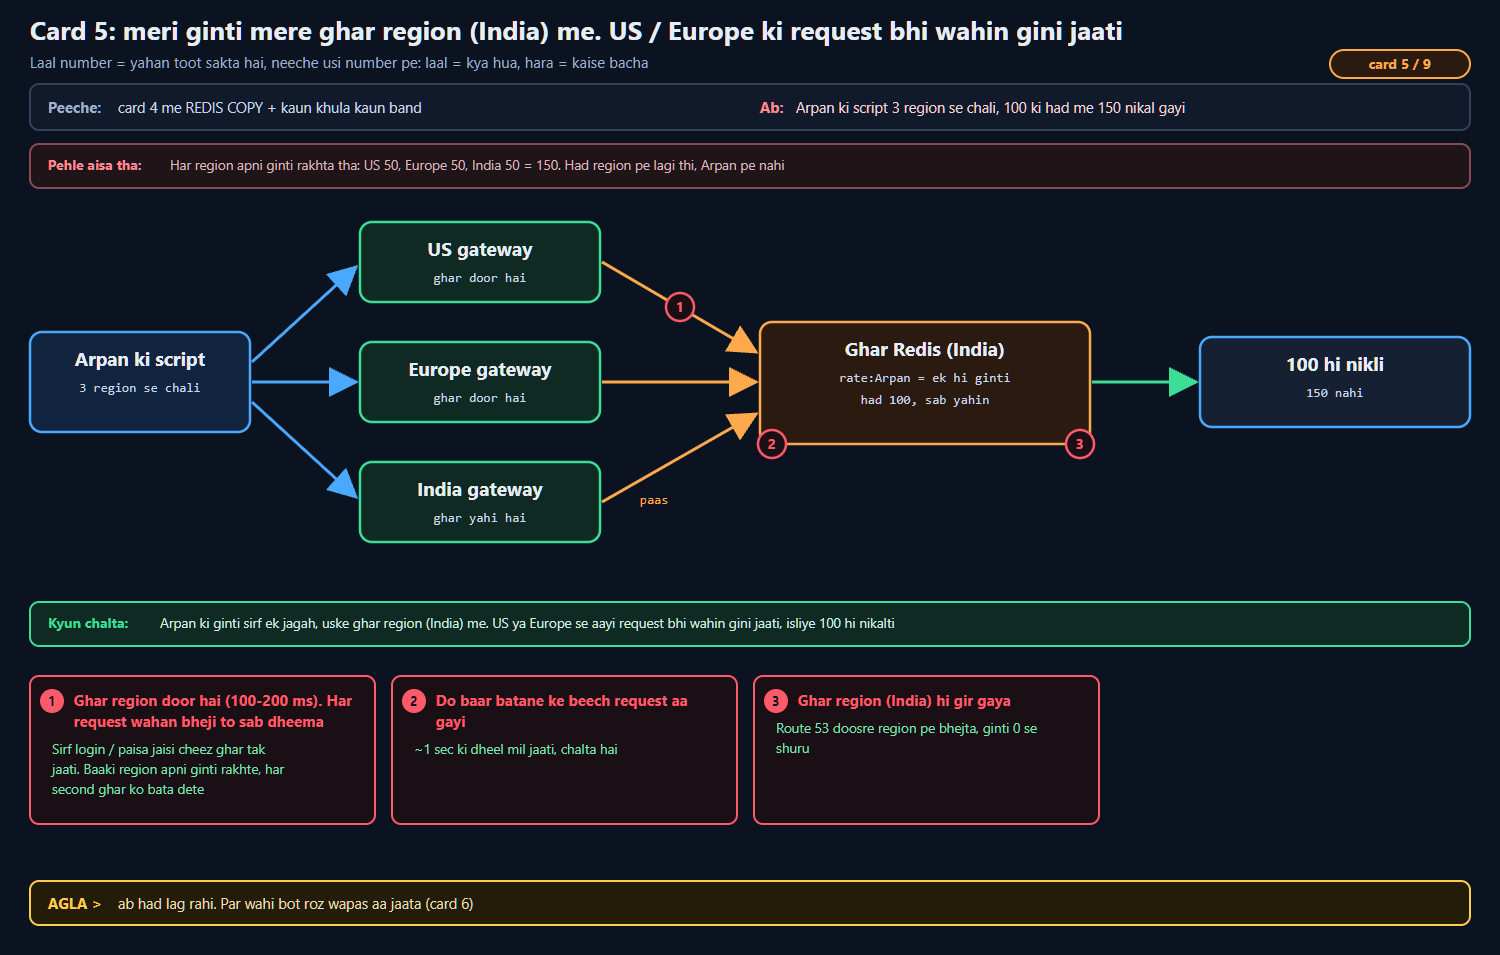
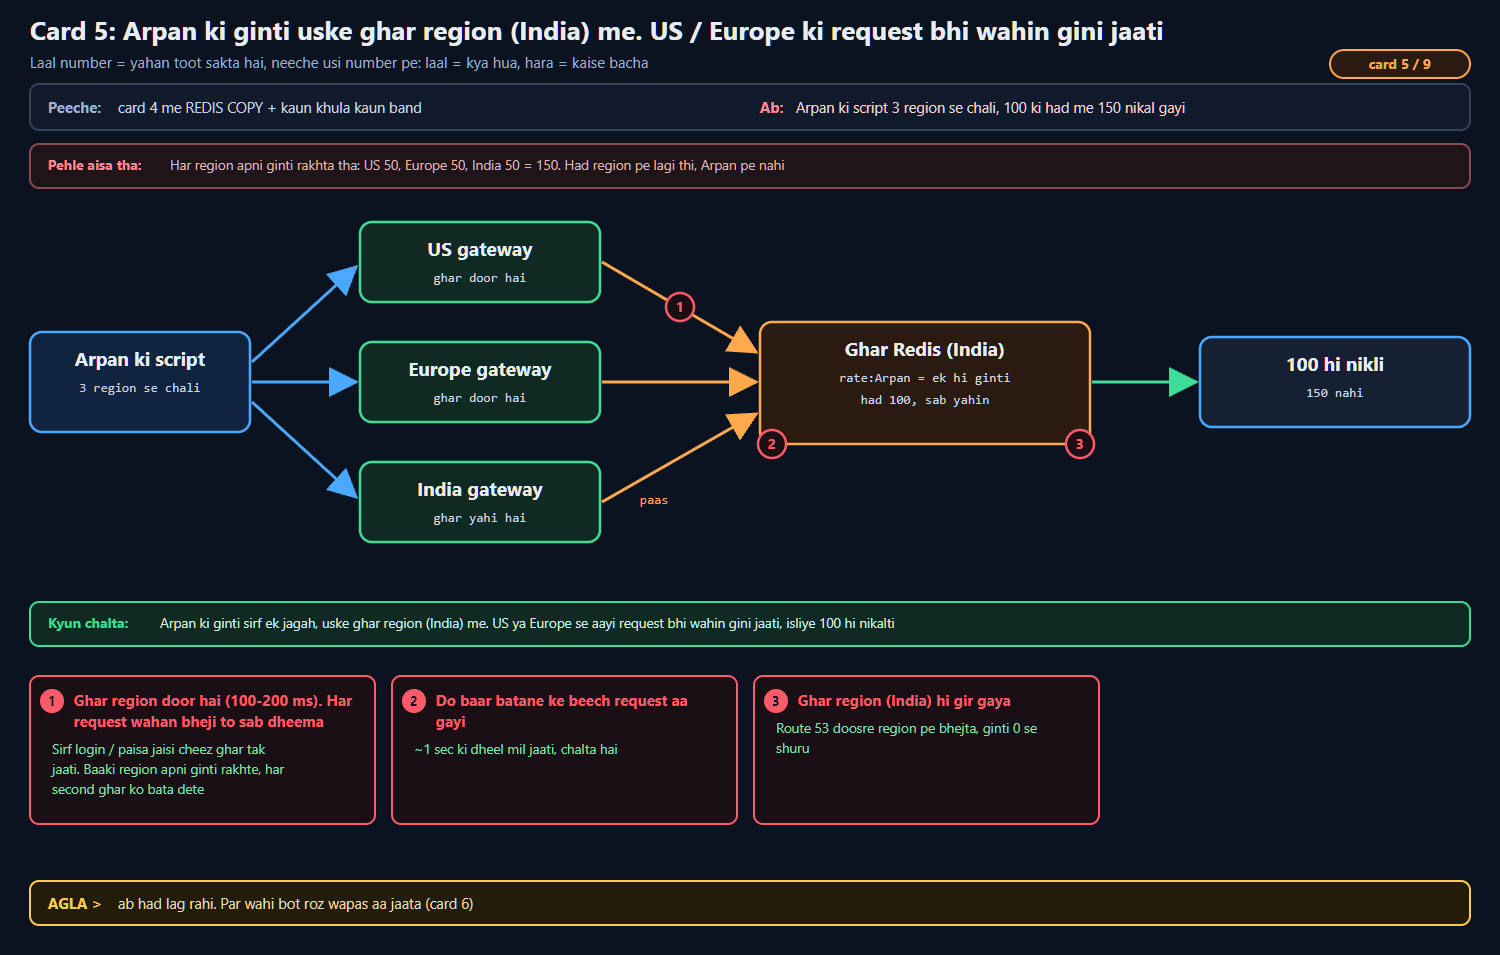
hld poster: teen heading me mera / meri -> Arpan

Changed region(s): [[0.092, 0.0, 0.7667, 0.0607]]

diff --git a/04_HLD/SYSTEM_DESIGNS/06_payment_system/img/c10_poster.html b/04_HLD/SYSTEM_DESIGNS/06_payment_system/img/c10_poster.html
@@ -1,6 +1,6 @@
 <!doctype html>
 <meta charset="utf-8">
-<title>Card 10: account_id se shard: mera balan</title>
+<title>Card 10: account_id se shard: Arpan ka b</title>
 <style>body{margin:0;background:#0b1220} svg text{font-family:"Segoe UI",Arial,sans-serif} .m{font-family:Consolas,monospace}</style>
 <svg width="1500" height="1092" viewBox="0 0 1500 1092" xmlns="http://www.w3.org/2000/svg"><defs>
 <marker id="ablue" markerWidth="10" markerHeight="10" refX="9" refY="5" orient="auto"><path d="M0,0 L10,5 L0,10 Z" fill="#4aa8ff"/></marker>
@@ -9,7 +9,7 @@
 <marker id="agrey" markerWidth="10" markerHeight="10" refX="9" refY="5" orient="auto"><path d="M0,0 L10,5 L0,10 Z" fill="#6b7a90"/></marker>
 <marker id="aorange" markerWidth="10" markerHeight="10" refX="9" refY="5" orient="auto"><path d="M0,0 L10,5 L0,10 Z" fill="#ffa94d"/></marker>
 </defs><rect width="1500" height="1092" fill="#0b1220"/>
-<text x="30" y="40" font-size="26" font-weight="700" fill="#e6edf3">Card 10: account_id se shard: mera balance + history ek tukde pe. Do shard ke beech = saga</text>
+<text x="30" y="40" font-size="26" font-weight="700" fill="#e6edf3">Card 10: account_id se shard: Arpan ka balance + history ek tukde pe. Do shard ke beech = saga</text>
 <text x="30" y="68" font-size="15" fill="#9fb0c8">Laal number = yahan toot sakta hai, neeche usi number pe: laal = kya hua, hara = kaise bacha</text>
 <rect x="1330" y="50" width="140" height="28" rx="14" fill="#2a1a10" stroke="#ffa94d" stroke-width="2"/>
 <text x="1400" y="69" font-size="14" font-weight="700" fill="#ffa94d" text-anchor="middle">card 10 / 10</text>

diff --git a/04_HLD/SYSTEM_DESIGNS/02_rate_limiter/img/c5_poster.html b/04_HLD/SYSTEM_DESIGNS/02_rate_limiter/img/c5_poster.html
@@ -1,6 +1,6 @@
 <!doctype html>
 <meta charset="utf-8">
-<title>Card 5: meri ginti mere ghar region (Ind</title>
+<title>Card 5: Arpan ki ginti uske ghar region </title>
 <style>body{margin:0;background:#0b1220} svg text{font-family:"Segoe UI",Arial,sans-serif} .m{font-family:Consolas,monospace}</style>
 <svg width="1500" height="955" viewBox="0 0 1500 955" xmlns="http://www.w3.org/2000/svg"><defs>
 <marker id="ablue" markerWidth="10" markerHeight="10" refX="9" refY="5" orient="auto"><path d="M0,0 L10,5 L0,10 Z" fill="#4aa8ff"/></marker>
@@ -9,7 +9,7 @@
 <marker id="agrey" markerWidth="10" markerHeight="10" refX="9" refY="5" orient="auto"><path d="M0,0 L10,5 L0,10 Z" fill="#6b7a90"/></marker>
 <marker id="aorange" markerWidth="10" markerHeight="10" refX="9" refY="5" orient="auto"><path d="M0,0 L10,5 L0,10 Z" fill="#ffa94d"/></marker>
 </defs><rect width="1500" height="955" fill="#0b1220"/>
-<text x="30" y="40" font-size="26" font-weight="700" fill="#e6edf3">Card 5: meri ginti mere ghar region (India) me. US / Europe ki request bhi wahin gini jaati</text>
+<text x="30" y="40" font-size="26" font-weight="700" fill="#e6edf3">Card 5: Arpan ki ginti uske ghar region (India) me. US / Europe ki request bhi wahin gini jaati</text>
 <text x="30" y="68" font-size="15" fill="#9fb0c8">Laal number = yahan toot sakta hai, neeche usi number pe: laal = kya hua, hara = kaise bacha</text>
 <rect x="1330" y="50" width="140" height="28" rx="14" fill="#2a1a10" stroke="#ffa94d" stroke-width="2"/>
 <text x="1400" y="69" font-size="14" font-weight="700" fill="#ffa94d" text-anchor="middle">card 5 / 9</text>

diff --git a/04_HLD/SYSTEM_DESIGNS/08_news_aggregator/img/c6_poster.html b/04_HLD/SYSTEM_DESIGNS/08_news_aggregator/img/c6_poster.html
@@ -41,7 +41,7 @@
 <text x="1105.0" y="314" font-size="13" fill="#c9d6e8" class="m" text-anchor="middle">id se dedupe</text>
 <rect x="1310" y="230" width="160" height="120" rx="12" fill="#10243f" stroke="#4aa8ff" stroke-width="2.5"/>
 <text x="1390.0" y="264" font-size="19" font-weight="700" fill="#e6edf3" text-anchor="middle">Arpan ki feed</text>
-<text x="1390.0" y="290" font-size="13" fill="#c9d6e8" class="m" text-anchor="middle">mera mix</text>
+<text x="1390.0" y="290" font-size="13" fill="#c9d6e8" class="m" text-anchor="middle">Arpan ka mix</text>
 <path d="M232 280 L296 280" fill="none" stroke="#4aa8ff" stroke-width="3" marker-end="url(#ablue)"/>
 <path d="M542 250 L626 205" fill="none" stroke="#ffa94d" stroke-width="3" marker-end="url(#aorange)"/>
 <path d="M542 290 L626 315" fill="none" stroke="#ffa94d" stroke-width="3" marker-end="url(#aorange)"/>

diff --git a/04_HLD/SYSTEM_DESIGNS/06_payment_system/06_payment_system.md b/04_HLD/SYSTEM_DESIGNS/06_payment_system/06_payment_system.md
@@ -71,7 +71,7 @@ DHYAAN  "NoSQL me ACID hota hi nahi" mat bolo, kai NoSQL ek row / document pe at
 
 **Rail 1 KAAM CHALA (khaas)** · Cue: EK TRANSACTION (WAL se poora / ulta)
 
-<img src="img/c1_poster.png?v=3" width="1000" alt="card 1: kya toota, kaise bacha">
+<img src="img/c1_poster.png?v=4" width="1000" alt="card 1: kya toota, kaise bacha">
 
 
 ---
@@ -82,7 +82,7 @@ DHYAAN  "NoSQL me ACID hota hi nahi" mat bolo, kai NoSQL ek row / document pe at
 
 **Rail 4 DO LOG EK SAATH (wallet)** · Cue: check + kaato EK atomic query
 
-<img src="img/c2_poster.png?v=3" width="1000" alt="card 2: kya toota, kaise bacha">
+<img src="img/c2_poster.png?v=4" width="1000" alt="card 2: kya toota, kaise bacha">
 
 
 ---
@@ -93,7 +93,7 @@ DHYAAN  "NoSQL me ACID hota hi nahi" mat bolo, kai NoSQL ek row / document pe at
 
 **Rail 4 DO LOG EK SAATH (retry)** · Cue: IDEMPOTENCY KEY (screen khulte)
 
-<img src="img/c3_poster.png?v=3" width="1000" alt="card 3: kya toota, kaise bacha">
+<img src="img/c3_poster.png?v=4" width="1000" alt="card 3: kya toota, kaise bacha">
 
 
 ---
@@ -104,7 +104,7 @@ DHYAAN  "NoSQL me ACID hota hi nahi" mat bolo, kai NoSQL ek row / document pe at
 
 **Rail 5 KUCH DHEEMA (PSP)** · Cue: timeout = PENDING, circuit breaker = abhi nahi
 
-<img src="img/c4_poster.png?v=3" width="1000" alt="card 4: kya toota, kaise bacha">
+<img src="img/c4_poster.png?v=4" width="1000" alt="card 4: kya toota, kaise bacha">
 
 
 ---
@@ -115,7 +115,7 @@ DHYAAN  "NoSQL me ACID hota hi nahi" mat bolo, kai NoSQL ek row / document pe at
 
 **Rail 3 MACHINE GIRI (PSP call)** · Cue: PENDING pehle + WEBHOOK + RECONCILE
 
-<img src="img/c5_poster.png?v=3" width="1000" alt="card 5: kya toota, kaise bacha">
+<img src="img/c5_poster.png?v=4" width="1000" alt="card 5: kya toota, kaise bacha">
 
 
 ---
@@ -126,7 +126,7 @@ DHYAAN  "NoSQL me ACID hota hi nahi" mat bolo, kai NoSQL ek row / document pe at
 
 **Rail 1 KAAM CHALA (doosra bank)** · Cue: SAGA (step-step, fail pe ulta)
 
-<img src="img/c6_poster.png?v=3" width="1000" alt="card 6: kya toota, kaise bacha">
+<img src="img/c6_poster.png?v=4" width="1000" alt="card 6: kya toota, kaise bacha">
 
 
 ---
@@ -137,7 +137,7 @@ DHYAAN  "NoSQL me ACID hota hi nahi" mat bolo, kai NoSQL ek row / document pe at
 
 **Rail 1 KAAM CHALA (hisaab)** · Cue: LEDGER double-entry, sirf INSERT
 
-<img src="img/c7_poster.png?v=3" width="1000" alt="card 7: kya toota, kaise bacha">
+<img src="img/c7_poster.png?v=4" width="1000" alt="card 7: kya toota, kaise bacha">
 
 
 ---
@@ -148,7 +148,7 @@ DHYAAN  "NoSQL me ACID hota hi nahi" mat bolo, kai NoSQL ek row / document pe at
 
 **Rail 2 BHEED AAYI** · Cue: STATELESS, kai machine + LB
 
-<img src="img/c8_poster.png?v=3" width="1000" alt="card 8: kya toota, kaise bacha">
+<img src="img/c8_poster.png?v=4" width="1000" alt="card 8: kya toota, kaise bacha">
 
 
 ---
@@ -159,7 +159,7 @@ DHYAAN  "NoSQL me ACID hota hi nahi" mat bolo, kai NoSQL ek row / document pe at
 
 **Rail 5 KUCH DHEEMA (report)** · Cue: READ REPLICA (sirf report)
 
-<img src="img/c9_poster.png?v=3" width="1000" alt="card 9: kya toota, kaise bacha">
+<img src="img/c9_poster.png?v=4" width="1000" alt="card 9: kya toota, kaise bacha">
 
 
 ---
@@ -170,7 +170,7 @@ DHYAAN  "NoSQL me ACID hota hi nahi" mat bolo, kai NoSQL ek row / document pe at
 
 **Rail 6 DATA BADA** · Cue: SHARD by account_id
 
-<img src="img/c10_poster.png?v=3" width="1000" alt="card 10: kya toota, kaise bacha">
+<img src="img/c10_poster.png?v=4" width="1000" alt="card 10: kya toota, kaise bacha">
 
 
 ---

diff --git a/04_HLD/SYSTEM_DESIGNS/08_news_aggregator/08_news_aggregator_INTERVIEW.md b/04_HLD/SYSTEM_DESIGNS/08_news_aggregator/08_news_aggregator_INTERVIEW.md
@@ -63,7 +63,7 @@ PEHLE   sabse simple: Fetcher sources se laata hai, DB me daalta hai. Feed Svc h
 
 **Rail 2 BHEED AAYI** · Cue: FEED CACHE (Redis SORTED SET)
 
-<img src="img/c1_poster.png?v=3" width="1000" alt="card 1: kya toota, kaise bacha">
+<img src="img/c1_poster.png?v=4" width="1000" alt="card 1: kya toota, kaise bacha">
 
 
 ---
@@ -74,7 +74,7 @@ PEHLE   sabse simple: Fetcher sources se laata hai, DB me daalta hai. Feed Svc h
 
 **Rail 5 KUCH DHEEMA (fetch)** · Cue: KAFKA: laana aur likhna alag
 
-<img src="img/c2_poster.png?v=3" width="1000" alt="card 2: kya toota, kaise bacha">
+<img src="img/c2_poster.png?v=4" width="1000" alt="card 2: kya toota, kaise bacha">
 
 
 ---
@@ -85,7 +85,7 @@ PEHLE   sabse simple: Fetcher sources se laata hai, DB me daalta hai. Feed Svc h
 
 **Rail 2 BHEED AAYI (result)** · Cue: LB + READ REPLICA
 
-<img src="img/c3_poster.png?v=3" width="1000" alt="card 3: kya toota, kaise bacha">
+<img src="img/c3_poster.png?v=4" width="1000" alt="card 3: kya toota, kaise bacha">
 
 
 ---
@@ -96,7 +96,7 @@ PEHLE   sabse simple: Fetcher sources se laata hai, DB me daalta hai. Feed Svc h
 
 **Rail 4 DO LOG EK SAATH (khaas)** · Cue: DEDUPE (title hash + SimHash)
 
-<img src="img/c4_poster.png?v=3" width="1000" alt="card 4: kya toota, kaise bacha">
+<img src="img/c4_poster.png?v=4" width="1000" alt="card 4: kya toota, kaise bacha">
 
 
 ---
@@ -107,7 +107,7 @@ PEHLE   sabse simple: Fetcher sources se laata hai, DB me daalta hai. Feed Svc h
 
 **Rail 5 KUCH DHEEMA (source)** · Cue: TIMEOUT + CIRCUIT BREAKER
 
-<img src="img/c5_poster.png?v=3" width="1000" alt="card 5: kya toota, kaise bacha">
+<img src="img/c5_poster.png?v=4" width="1000" alt="card 5: kya toota, kaise bacha">
 
 
 ---
@@ -118,7 +118,7 @@ PEHLE   sabse simple: Fetcher sources se laata hai, DB me daalta hai. Feed Svc h
 
 **Rail 1 KAAM CHALA (category)** · Cue: CATEGORY FEED, padhte waqt milao
 
-<img src="img/c6_poster.png?v=3" width="1000" alt="card 6: kya toota, kaise bacha">
+<img src="img/c6_poster.png?v=4" width="1000" alt="card 6: kya toota, kaise bacha">
 
 
 ---
@@ -129,7 +129,7 @@ PEHLE   sabse simple: Fetcher sources se laata hai, DB me daalta hai. Feed Svc h
 
 **Rail 1 KAAM CHALA (search)** · Cue: INVERTED INDEX
 
-<img src="img/c7_poster.png?v=3" width="1000" alt="card 7: kya toota, kaise bacha">
+<img src="img/c7_poster.png?v=4" width="1000" alt="card 7: kya toota, kaise bacha">
 
 
 ---
@@ -140,7 +140,7 @@ PEHLE   sabse simple: Fetcher sources se laata hai, DB me daalta hai. Feed Svc h
 
 **Rail 6 DATA BADA (purana)** · Cue: mahine ka PARTITION, purana ARCHIVE
 
-<img src="img/c8_poster.png?v=3" width="1000" alt="card 8: kya toota, kaise bacha">
+<img src="img/c8_poster.png?v=4" width="1000" alt="card 8: kya toota, kaise bacha">
 
 
 ---
@@ -151,7 +151,7 @@ PEHLE   sabse simple: Fetcher sources se laata hai, DB me daalta hai. Feed Svc h
 
 **Rail 6 DATA BADA (likhai)** · Cue: SHARD hash(article_id)
 
-<img src="img/c9_poster.png?v=3" width="1000" alt="card 9: kya toota, kaise bacha">
+<img src="img/c9_poster.png?v=4" width="1000" alt="card 9: kya toota, kaise bacha">
 
 
 ---

diff --git a/04_HLD/SYSTEM_DESIGNS/02_rate_limiter/02_rate_limiter.md b/04_HLD/SYSTEM_DESIGNS/02_rate_limiter/02_rate_limiter.md
@@ -78,7 +78,7 @@ AGAR    bucket bhara tha, 10 request ek saath aayi
 
 **Rail 4 DO LOG EK SAATH** · Cue: Redis me EK ginti, 60 sec umar
 
-<img src="img/c1_poster.png?v=3" width="1000" alt="card 1: kya toota, kaise bacha">
+<img src="img/c1_poster.png?v=4" width="1000" alt="card 1: kya toota, kaise bacha">
 
 
 ---
@@ -89,7 +89,7 @@ AGAR    bucket bhara tha, 10 request ek saath aayi
 
 **Rail 4 DO LOG EK SAATH (khaas)** · Cue: ATOMIC: INCR / LUA script
 
-<img src="img/c2_poster.png?v=3" width="1000" alt="card 2: kya toota, kaise bacha">
+<img src="img/c2_poster.png?v=4" width="1000" alt="card 2: kya toota, kaise bacha">
 
 
 ---
@@ -100,7 +100,7 @@ AGAR    bucket bhara tha, 10 request ek saath aayi
 
 **Rail 5 KUCH DHEEMA** · Cue: LIMITER GATEWAY pe, sabse aage
 
-<img src="img/c3_poster.png?v=3" width="1000" alt="card 3: kya toota, kaise bacha">
+<img src="img/c3_poster.png?v=4" width="1000" alt="card 3: kya toota, kaise bacha">
 
 
 ---
@@ -111,7 +111,7 @@ AGAR    bucket bhara tha, 10 request ek saath aayi
 
 **Rail 3 MACHINE GIRI** · Cue: REPLICA + FAIL-OPEN / FAIL-CLOSED
 
-<img src="img/c4_poster.png?v=3" width="1000" alt="card 4: kya toota, kaise bacha">
+<img src="img/c4_poster.png?v=4" width="1000" alt="card 4: kya toota, kaise bacha">
 
 
 ---
@@ -122,7 +122,7 @@ AGAR    bucket bhara tha, 10 request ek saath aayi
 
 **Rail 7 DOOR KE LOG** · Cue: HOME REGION me ginti
 
-<img src="img/c5_poster.png?v=3" width="1000" alt="card 5: kya toota, kaise bacha">
+<img src="img/c5_poster.png?v=4" width="1000" alt="card 5: kya toota, kaise bacha">
 
 
 ---
@@ -133,7 +133,7 @@ AGAR    bucket bhara tha, 10 request ek saath aayi
 
 **Rail 8 BAHAR KA HAMLA** · Cue: KAFKA -> PATTERN -> WAF BAN
 
-<img src="img/c6_poster.png?v=3" width="1000" alt="card 6: kya toota, kaise bacha">
+<img src="img/c6_poster.png?v=4" width="1000" alt="card 6: kya toota, kaise bacha">
 
 
 ---
@@ -144,7 +144,7 @@ AGAR    bucket bhara tha, 10 request ek saath aayi
 
 **Rail 2 BHEED AAYI** · Cue: GLOBAL CAP + LOAD SHEDDING (503)
 
-<img src="img/c7_poster.png?v=3" width="1000" alt="card 7: kya toota, kaise bacha">
+<img src="img/c7_poster.png?v=4" width="1000" alt="card 7: kya toota, kaise bacha">
 
 
 ---
@@ -155,7 +155,7 @@ AGAR    bucket bhara tha, 10 request ek saath aayi
 
 **Rail 3 MACHINE GIRI (Redis + copy)** · Cue: LOCAL COUNTER FALLBACK
 
-<img src="img/c8_poster.png?v=3" width="1000" alt="card 8: kya toota, kaise bacha">
+<img src="img/c8_poster.png?v=4" width="1000" alt="card 8: kya toota, kaise bacha">
 
 
 ---
@@ -166,7 +166,7 @@ AGAR    bucket bhara tha, 10 request ek saath aayi
 
 **Rail 8 BAHAR KA HAMLA** · Cue: KEY = USER_ID (JWT), IP sirf login
 
-<img src="img/c9_poster.png?v=3" width="1000" alt="card 9: kya toota, kaise bacha">
+<img src="img/c9_poster.png?v=4" width="1000" alt="card 9: kya toota, kaise bacha">
 
 
 ---
